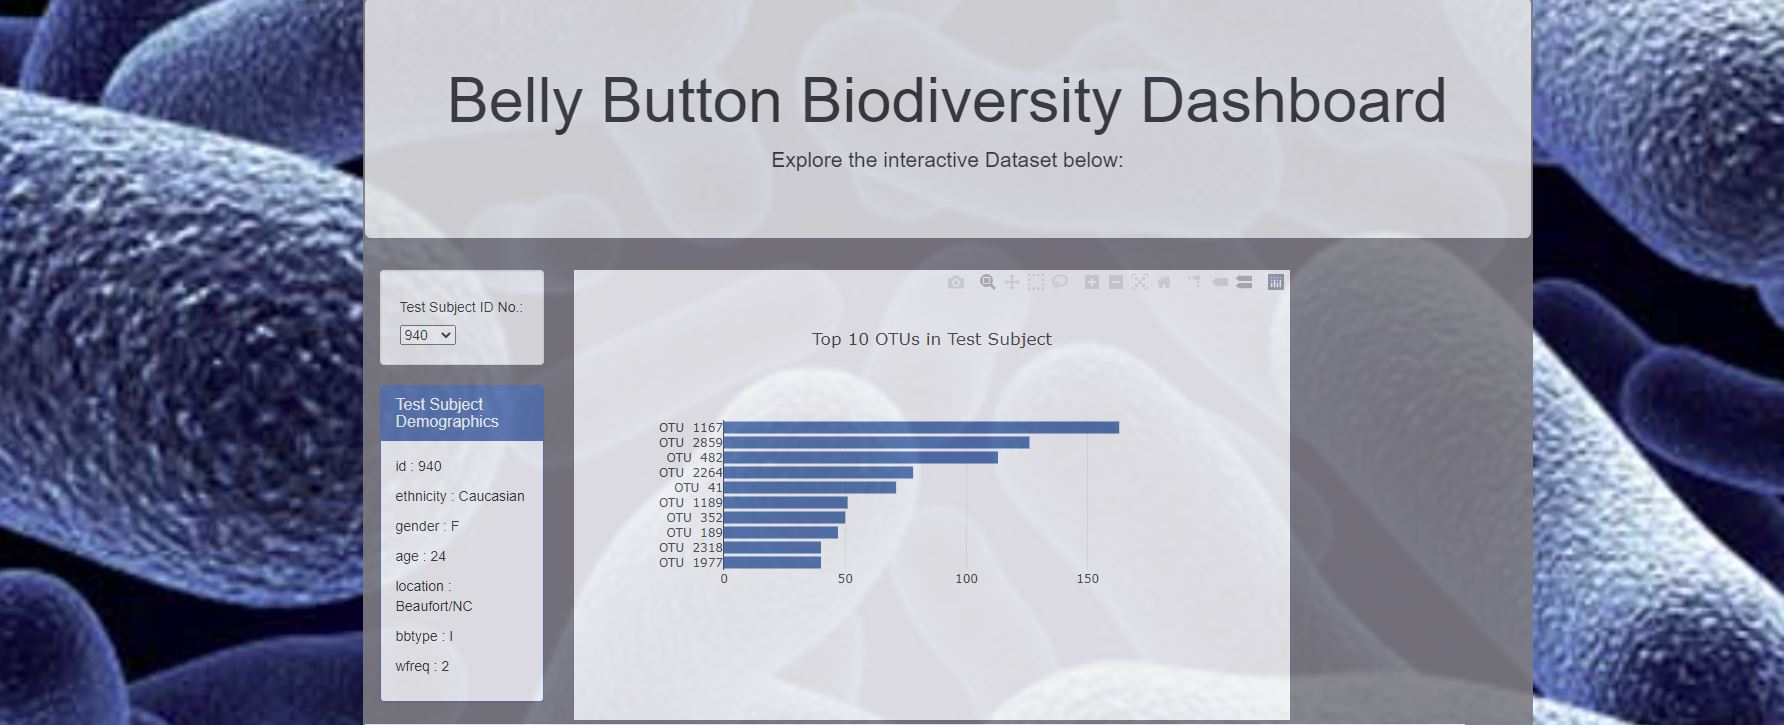
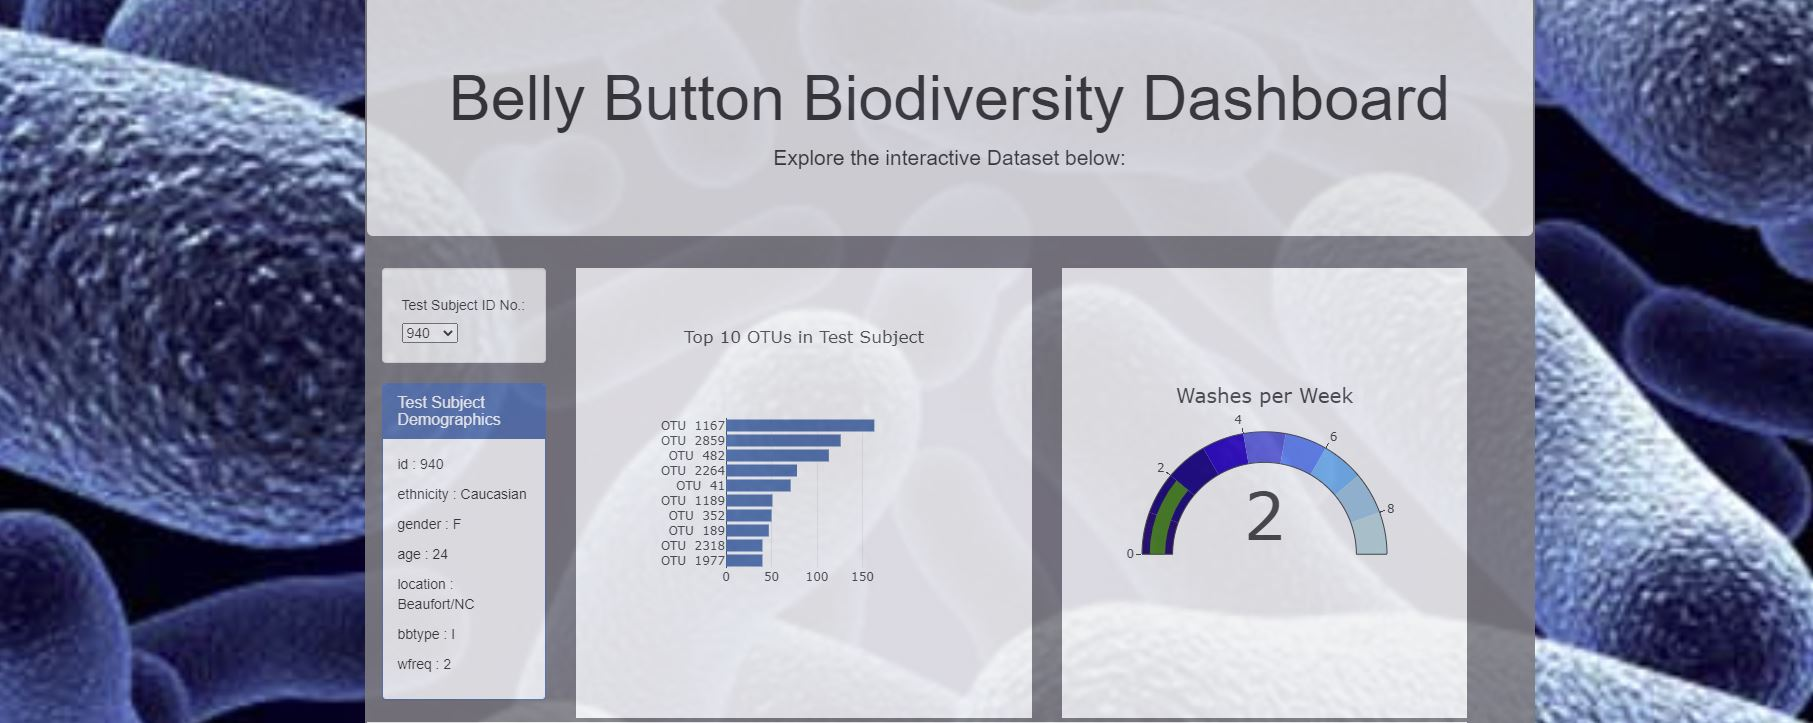
complete!

diff --git a/js/app.js b/js/app.js
@@ -12,7 +12,8 @@ function init() {
         dropdown.append("option").text(name).property("value");
     });
     //call the createplot, and meta functions for selected test subject
-        createPlots(parsedData[0]);
+    creategauge(parsedData[0]);    
+    createPlots(parsedData[0]);
         createMeta(parsedData[0]);
         })
 }
@@ -22,7 +23,44 @@ init();
 function optionChanged(selection){
     createPlots(selection);
     createMeta(selection);
+    creategauge(selection);
 }
+function creategauge(selection) {
+    d3.json("js/samples.json").then((sampleData) => {
+        var parsedData = sampleData.metadata;
+        var sampleArray = parsedData.filter(sampleObj => sampleObj.id == selection);
+        var sample = sampleArray[0];
+        wfreq = sample.wfreq;
+        console.log(wfreq);
+        var data = [
+            {
+              domain: { x: [0, 1], y: [0, 1] },
+              value: wfreq,
+              title: { text: "Washes per Week" },
+              type: "indicator",
+              mode: "gauge+number",
+              gauge: {
+                axis: { range: [null, 9] },
+                steps: [
+                  { range: [0, 1], color: "MidnightBlue" },
+                  { range: [1, 2], color: "Navy" },
+                  { range: [2, 3], color: "DarkBlue" },
+                  { range: [3, 4], color: "MediumBlue" },
+                  { range: [4, 5], color: "RoyalBlue" },
+                  { range: [5, 6], color: "DodgerBlue" },
+                  { range: [6, 7], color: "DeepSkyBlue" },
+                  { range: [7, 8], color: "SkyBlue" },
+                  { range: [8, 9], color: "PowderBlue" }
+                ],
+              }
+            }
+          ];
+          
+          var layout = { width: 405, height: 450, margin: { t: 0, b: 0 } };
+          Plotly.newPlot('gauge', data, layout);
+    
+    }
+    )}
 function createMeta(selection) {
 // create demographic values to be put into dashboard
     d3.json("js/samples.json").then((sampleData) => {
@@ -91,6 +129,4 @@ function createPlots(selection) {
             title: "OTU ID"
             }
         };
-    Plotly.newPlot("bubble", bubblechartData, bublayout);
-    
-    })})}
+    Plotly.newPlot("bubble", bubblechartData, bublayout);})})}
